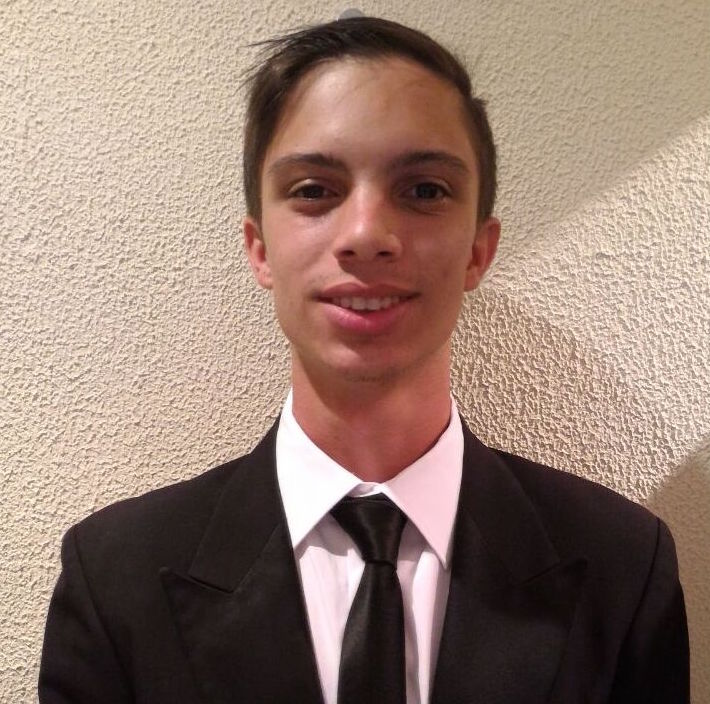
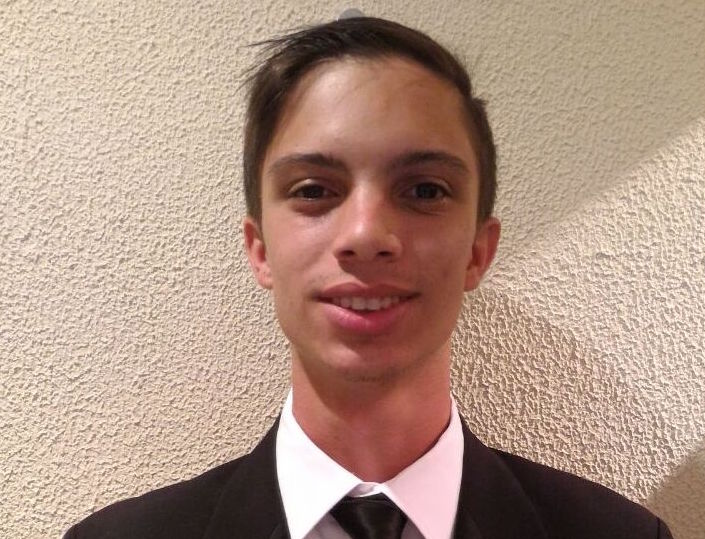
Luma photo fix Maria P profile added

diff --git a/about.html b/about.html
@@ -153,14 +153,12 @@
         </div>
             <div class="col-md-4 text-center">
                 <div class="thumbnail">
-                    <img class="img-responsive" src="maria2.png" alt="" width="304" height="236">
+                    <img class="img-responsive" src="Elizabeth.jpg" alt="" width="304" height="236">
                     <div class="caption">
                         <h3>Elizabeth Ball<br>
                             <small>Secretary</small>
                         </h3>
-                        <p>
-I am Elizabeth Ball, secretary of Florida Tech SHPE chapter. I am currently a junior in Biomedical Engineering.
-The reason why I am involved in SHPE because it provides the perfect opportunity to grow as a leader, a student, and a professional.</p>
+                        <p>I am Elizabeth Ball, secretary of Florida Tech SHPE chapter. I am currently a junior in Biomedical Engineering. The reason why I am involved in SHPE because it provides the perfect opportunity to grow as a leader, a student, and a professional.</p>
                     </div>
                 </div>
             </div>
@@ -172,6 +170,17 @@ The reason why I am involved in SHPE because it provides the perfect opportunity
                             <small>Internal Representative</small>
                         </h3>
                         <p>I am Luma Fernandes and I am double majoring in Mechanical & Aerospace Engineering. I decided to join SHPE is because it is a great opportunity to develop your career professionally. Moreover, it teaches you how to be a better professional every day. My goal as an internal representative is to help as much as I can to make this organization grow faster and for the people to become more interested to join and see the benefits they can get. </p>
+                    </div>
+                </div>
+            </div>
+            <div class="col-md-4 text-center">
+                <div class="thumbnail">
+                    <img class="img-responsive" src="maria2.png" alt="" width="304" height="236">
+                    <div class="caption">
+                        <h3>Maria Paula Felicita<br>
+                            <small>Secretary</small>
+                        </h3>
+                        <p>I am currently a junior majoring in Civil Engineering. It is a very tough world out there, and you need to prepare in order to succeed. Nowadays, more people have access to higher education, which is good, but it makes the world more competitive. It is my goal to prepare our members and myself in order to have all the tools needed to show the world what we have been preparing for and become successful professionals. </p>
                     </div>
                 </div>
             </div>
